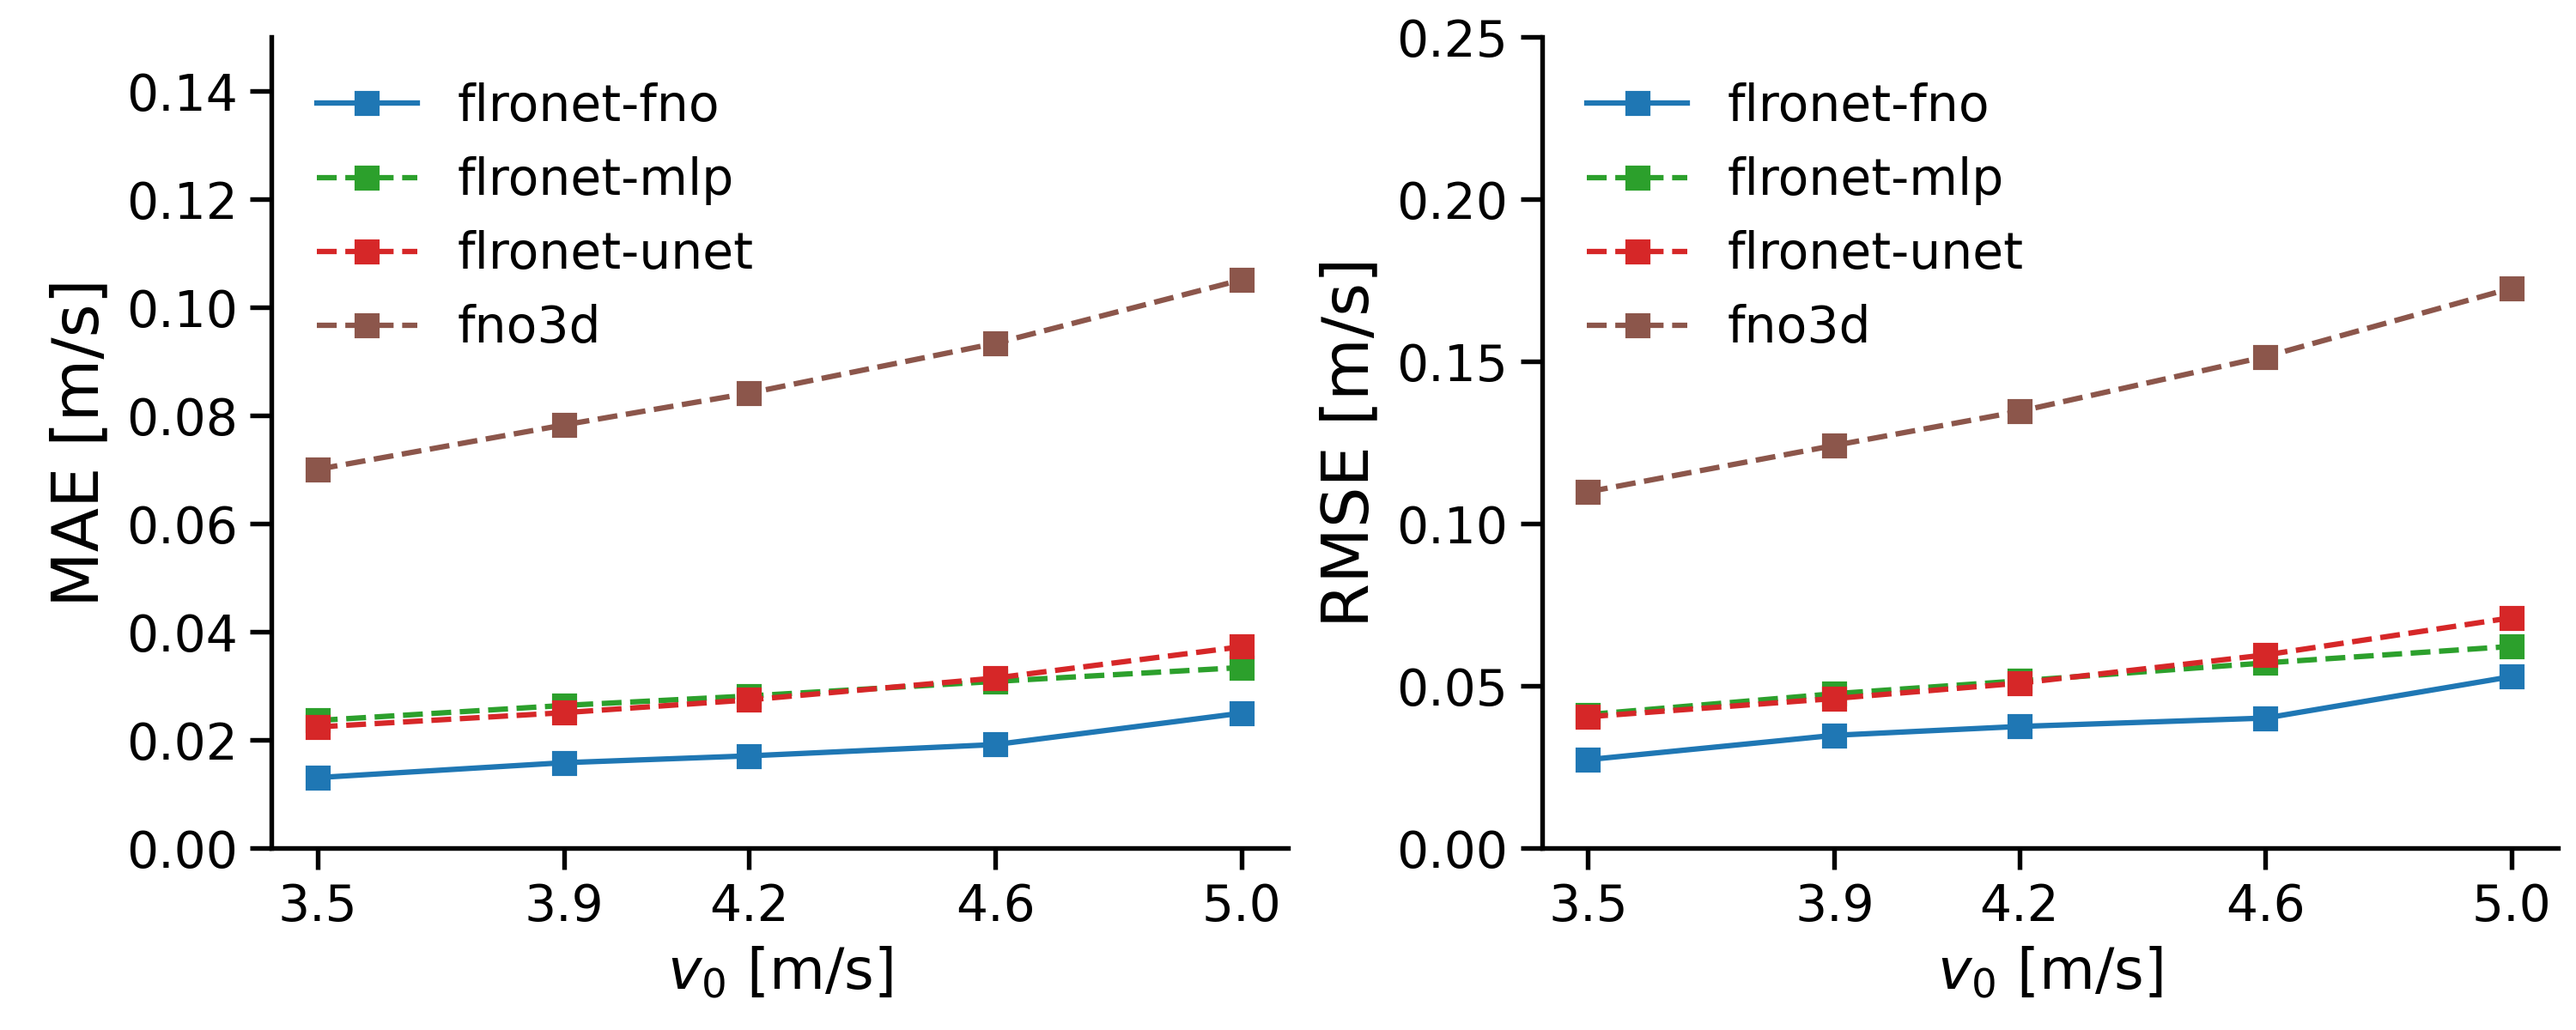
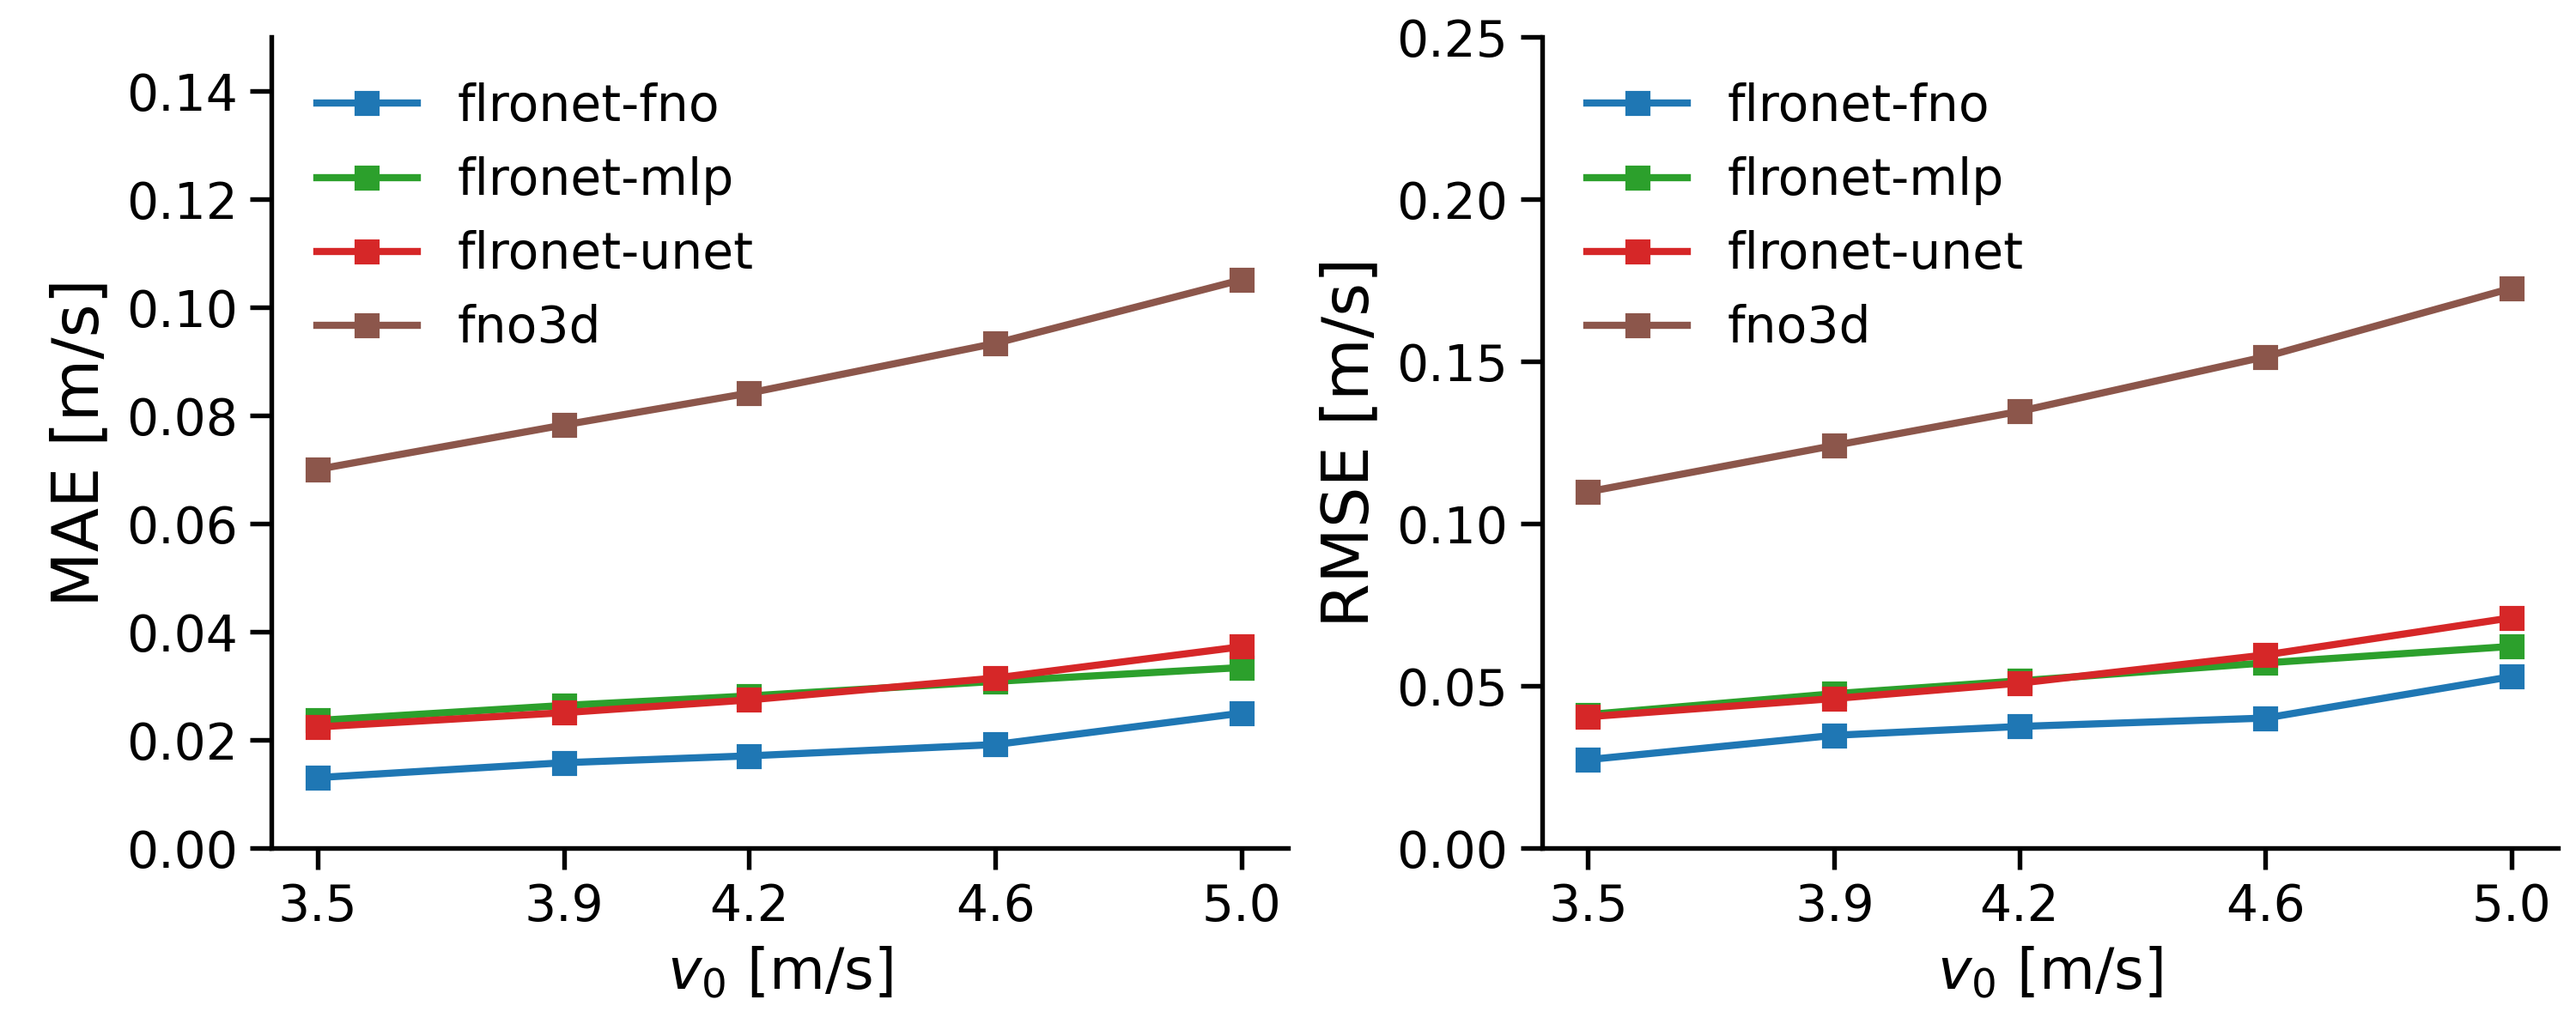
make tight figures

diff --git a/report/noise.py b/report/noise.py
@@ -1,5 +1,6 @@
 import json
 import matplotlib.pyplot as plt
+from matplotlib.lines import Line2D
 
 # Load the data from the JSON file
 with open('report/noise.json', 'r') as f:
@@ -19,34 +20,53 @@ mae_fno3d = [v['MAE'] for v in data['fno3d'].values()]
 # Plotting
 fig, axs = plt.subplots(1, 2, figsize=(12, 4), sharex=True)
 
+# Custom legends
+legend_elements = [
+    Line2D([0], [0], color='tab:blue', marker='s', linestyle='-', linewidth=3, markersize=6, label='flronet-fno'),
+    Line2D([0], [0], color='tab:green', marker='s', linestyle='-', linewidth=3, markersize=6, label='flronet-mlp'),
+    Line2D([0], [0], color='tab:red', marker='s', linestyle='-', linewidth=3, markersize=6, label='flronet-unet'),
+    Line2D([0], [0], color='tab:brown', marker='s', linestyle='-', linewidth=3, markersize=6, label='fno3d')
+]
+
 # MAE subplot
-axs[0].plot(noise_levels, mae_flronetfno, color='tab:blue', label='flronet-fno', linewidth=4)
-axs[0].plot(noise_levels, mae_flronetmlp, color='tab:green', label='flronet-mlp', linewidth=4)
-axs[0].plot(noise_levels, mae_flronetunet, color='tab:red', label='flronet-unet', linewidth=4)
-axs[0].plot(noise_levels, mae_fno3d, color='tab:brown', label='fno3d', linewidth=4)
-axs[0].set_xlabel(r'$\epsilon$', fontsize=18)
+marker_positions = [0., 0.05, 0.1, 0.15, 0.2]
+marker_indices = [list(noise_levels).index(pos) for pos in marker_positions]  # Find indices
+
+axs[0].plot(noise_levels, mae_flronetfno, color='tab:blue', label='flronet-fno', linewidth=3)
+axs[0].plot(marker_positions, [mae_flronetfno[i] for i in marker_indices], marker='s', color='tab:blue', linestyle='None', markersize=6)
+axs[0].plot(noise_levels, mae_flronetmlp, color='tab:green', label='flronet-mlp', linewidth=3)
+axs[0].plot(marker_positions, [mae_flronetmlp[i] for i in marker_indices], marker='s', color='tab:green', linestyle='None', markersize=6)
+axs[0].plot(noise_levels, mae_flronetunet, color='tab:red', label='flronet-unet', linewidth=3)
+axs[0].plot(marker_positions, [mae_flronetunet[i] for i in marker_indices], marker='s', color='tab:red', linestyle='None', markersize=6)
+axs[0].plot(noise_levels, mae_fno3d, color='tab:brown', label='fno3d', linewidth=3)
+axs[0].plot(marker_positions, [mae_fno3d[i] for i in marker_indices], marker='s', color='tab:brown', linestyle='None', markersize=6)
+axs[0].set_xlabel(r'$\epsilon$', fontsize=20)
 axs[0].set_ylabel('MAE [m/s]', fontsize=18)
 axs[0].tick_params(axis='both', labelsize=16)
 filtered_levels = [level for level in noise_levels if (level * 100) % 5 == 0]
 axs[0].set_xticks(filtered_levels)
 axs[0].set_xticklabels([f"{int(level * 100)}%" for level in filtered_levels])
-axs[0].legend(fontsize=16, frameon=False)
+axs[0].legend(handles=legend_elements, fontsize=16, frameon=False)
 axs[0].set_ylim(0, 0.5)
 axs[0].spines['top'].set_visible(False)
 axs[0].spines['right'].set_visible(False)
 
 # RMSE subplot
-axs[1].plot(noise_levels, rmse_flronetfno, color='tab:blue', label='flronet-fno', linewidth=4)
-axs[1].plot(noise_levels, rmse_flronetmlp, color='tab:green', label='flronet-mlp', linewidth=4)
-axs[1].plot(noise_levels, rmse_flronetunet, color='tab:red', label='flronet-unet', linewidth=4)
-axs[1].plot(noise_levels, rmse_fno3d, color='tab:brown', label='fno3d', linewidth=4)
-axs[1].set_xlabel(r'$\epsilon$', fontsize=18)
+axs[1].plot(noise_levels, rmse_flronetfno, color='tab:blue', label='flronet-fno', linewidth=3)
+axs[1].plot(marker_positions, [rmse_flronetfno[i] for i in marker_indices], marker='s', color='tab:blue', linestyle='None', markersize=6)
+axs[1].plot(noise_levels, rmse_flronetmlp, color='tab:green', label='flronet-mlp', linewidth=3)
+axs[1].plot(marker_positions, [rmse_flronetmlp[i] for i in marker_indices], marker='s', color='tab:green', linestyle='None', markersize=6)
+axs[1].plot(noise_levels, rmse_flronetunet, color='tab:red', label='flronet-unet', linewidth=3)
+axs[1].plot(marker_positions, [rmse_flronetunet[i] for i in marker_indices], marker='s', color='tab:red', linestyle='None', markersize=6)
+axs[1].plot(noise_levels, rmse_fno3d, color='tab:brown', label='fno3d', linewidth=3)
+axs[1].plot(marker_positions, [rmse_fno3d[i] for i in marker_indices], marker='s', color='tab:brown', linestyle='None', markersize=6)
+axs[1].set_xlabel(r'$\epsilon$', fontsize=20)
 axs[1].set_ylabel('RMSE [m/s]', fontsize=18)
 axs[1].tick_params(axis='both', labelsize=16)
 filtered_levels = [level for level in noise_levels if (level * 100) % 5 == 0]
 axs[1].set_xticks(filtered_levels)
 axs[1].set_xticklabels([f"{int(level * 100)}%" for level in filtered_levels])
-axs[1].legend(fontsize=16, frameon=False)
+axs[1].legend(handles=legend_elements, fontsize=16, frameon=False)
 axs[1].set_ylim(0, 0.7)
 axs[1].spines['top'].set_visible(False)
 axs[1].spines['right'].set_visible(False)

diff --git a/report/dropout.py b/report/dropout.py
@@ -1,5 +1,6 @@
 import json
 import matplotlib.pyplot as plt
+from matplotlib.lines import Line2D
 
 # Load the data from the JSON file
 with open('report/dropout.json', 'r') as f:
@@ -19,29 +20,46 @@ mae_fno3d = [data['fno3d'][str(i)]['MAE'] for i in steps]
 # Plotting
 fig, axs = plt.subplots(1, 2, figsize=(12, 4), sharex=True)
 
+# Custom legends
+legend_elements = [
+    Line2D([0], [0], color='tab:blue', marker='s', linestyle='-', linewidth=3, markersize=6, label='flronet-fno'),
+    Line2D([0], [0], color='tab:green', marker='s', linestyle='-', linewidth=3, markersize=6, label='flronet-mlp'),
+    Line2D([0], [0], color='tab:red', marker='s', linestyle='-', linewidth=3, markersize=6, label='flronet-unet'),
+    Line2D([0], [0], color='tab:brown', marker='s', linestyle='-', linewidth=3, markersize=6, label='fno3d')
+]
+
 # MAE subplot
-axs[0].plot(steps, mae_flronetfno, label='flronet-fno', linestyle='-', color='tab:blue', linewidth=4)
-axs[0].plot(steps, mae_flronetmlp, label='flronet-mlp', linestyle='-', color='tab:green', linewidth=4)
-axs[0].plot(steps, mae_flronetunet, label='flronet-unet', linestyle='-', color='tab:red', linewidth=4)
-axs[0].plot(steps, mae_fno3d, label='fno3d', linestyle='-', color='tab:brown', linewidth=4)
+marker_positions = [0, 5, 10, 15, 20]
+axs[0].plot(steps, mae_flronetfno, label='flronet-fno', linestyle='-', color='tab:blue', linewidth=3)
+axs[0].plot(marker_positions, [mae_flronetfno[i] for i in marker_positions], marker='s', color='tab:blue', linestyle='None', markersize=6)
+axs[0].plot(steps, mae_flronetmlp, label='flronet-mlp', linestyle='-', color='tab:green', linewidth=3)
+axs[0].plot(marker_positions, [mae_flronetmlp[i] for i in marker_positions], marker='s', color='tab:green', linestyle='None', markersize=6)
+axs[0].plot(steps, mae_flronetunet, label='flronet-unet', linestyle='-', color='tab:red', linewidth=3)
+axs[0].plot(marker_positions, [mae_flronetunet[i] for i in marker_positions], marker='s', color='tab:red', linestyle='None', markersize=6)
+axs[0].plot(steps, mae_fno3d, label='fno3d', linestyle='-', color='tab:brown', linewidth=3)
+axs[0].plot(marker_positions, [mae_fno3d[i] for i in marker_positions], marker='s', color='tab:brown', linestyle='None', markersize=6)
 axs[0].set_xlabel(r'$d$', fontsize=18)
 axs[0].set_ylabel('MAE [m/s]', fontsize=18)
 axs[0].tick_params(axis='both', labelsize=16)
 axs[0].set_ylim(0, None)
-axs[0].legend(fontsize=16, frameon=False)
+axs[0].legend(handles=legend_elements, fontsize=16, frameon=False)
 axs[0].spines['top'].set_visible(False)
 axs[0].spines['right'].set_visible(False)
 
 # RMSE subplot
-axs[1].plot(steps, rmse_flronetfno, label='flronet-fno', linestyle='-', color='tab:blue', linewidth=4)
-axs[1].plot(steps, rmse_flronetmlp, label='flronet-mlp', linestyle='-', color='tab:green', linewidth=4)
-axs[1].plot(steps, rmse_flronetunet, label='flronet-unet', linestyle='-', color='tab:red', linewidth=4)
-axs[1].plot(steps, rmse_fno3d, label='fno3d', linestyle='-', color='tab:brown', linewidth=4)
+axs[1].plot(steps, rmse_flronetfno, label='flronet-fno', linestyle='-', color='tab:blue', linewidth=3)
+axs[1].plot(marker_positions, [rmse_flronetfno[i] for i in marker_positions], marker='s', color='tab:blue', linestyle='None', markersize=6)
+axs[1].plot(steps, rmse_flronetmlp, label='flronet-mlp', linestyle='-', color='tab:green', linewidth=3)
+axs[1].plot(marker_positions, [rmse_flronetmlp[i] for i in marker_positions], marker='s', color='tab:green', linestyle='None', markersize=6)
+axs[1].plot(steps, rmse_flronetunet, label='flronet-unet', linestyle='-', color='tab:red', linewidth=3)
+axs[1].plot(marker_positions, [rmse_flronetunet[i] for i in marker_positions], marker='s', color='tab:red', linestyle='None', markersize=6)
+axs[1].plot(steps, rmse_fno3d, label='fno3d', linestyle='-', color='tab:brown', linewidth=3)
+axs[1].plot(marker_positions, [rmse_fno3d[i] for i in marker_positions], marker='s', color='tab:brown', linestyle='None', markersize=6)
 axs[1].set_xlabel(r'$d$', fontsize=18)
 axs[1].set_ylabel('RMSE [m/s]', fontsize=18)
 axs[1].tick_params(axis='both', labelsize=16)
 axs[1].set_ylim(0, None)
-axs[1].legend(fontsize=16, frameon=False)
+axs[1].legend(handles=legend_elements, fontsize=16, frameon=False)
 axs[1].spines['top'].set_visible(False)
 axs[1].spines['right'].set_visible(False)
 

diff --git a/report/compare.py b/report/compare.py
@@ -29,10 +29,10 @@ rmse_fno3d = [case['RMSE'] for case in data['fno3d'].values()]
 fig, axs = plt.subplots(1, 2, figsize=(10, 4))
 
 # MAE subplot
-axs[0].plot(v_flronetfno, mae_flronetfno, label='flronet-fno', marker='s', color='tab:blue', linestyle='-')
-axs[0].plot(v_flronetmlp, mae_flronetmlp, label='flronet-mlp', marker='s', color='tab:green', linestyle='--')
-axs[0].plot(v_flronetunet, mae_flronetunet, label='flronet-unet', marker='s', color='tab:red', linestyle='--')
-axs[0].plot(v_fno3d, mae_fno3d, label='fno3d', marker='s', color='tab:brown', linestyle='--')
+axs[0].plot(v_flronetfno, mae_flronetfno, label='flronet-fno', marker='s', color='tab:blue', linestyle='-', linewidth=2)
+axs[0].plot(v_flronetmlp, mae_flronetmlp, label='flronet-mlp', marker='s', color='tab:green', linestyle='-', linewidth=2)
+axs[0].plot(v_flronetunet, mae_flronetunet, label='flronet-unet', marker='s', color='tab:red', linestyle='-', linewidth=2)
+axs[0].plot(v_fno3d, mae_fno3d, label='fno3d', marker='s', color='tab:brown', linestyle='-', linewidth=2)
 axs[0].set_xticks(v_flronetfno)
 axs[0].set_xticklabels([f"{v:.1f}" for v in v_flronetfno], fontsize=14)
 axs[0].tick_params(axis='y', labelsize=14)
@@ -47,10 +47,10 @@ axs[0].spines['bottom'].set_linewidth(1.3)
 axs[0].tick_params(axis='both', which='major', length=6, width=1.3)
 
 # RMSE subplot
-axs[1].plot(v_flronetfno, rmse_flronetfno, label='flronet-fno', marker='s', color='tab:blue', linestyle='-')
-axs[1].plot(v_flronetmlp, rmse_flronetmlp, label='flronet-mlp', marker='s', color='tab:green', linestyle='--')
-axs[1].plot(v_flronetunet, rmse_flronetunet, label='flronet-unet', marker='s', color='tab:red', linestyle='--')
-axs[1].plot(v_fno3d, rmse_fno3d, label='fno3d', marker='s', color='tab:brown', linestyle='--')
+axs[1].plot(v_flronetfno, rmse_flronetfno, label='flronet-fno', marker='s', color='tab:blue', linestyle='-', linewidth=2)
+axs[1].plot(v_flronetmlp, rmse_flronetmlp, label='flronet-mlp', marker='s', color='tab:green', linestyle='-', linewidth=2)
+axs[1].plot(v_flronetunet, rmse_flronetunet, label='flronet-unet', marker='s', color='tab:red', linestyle='-', linewidth=2)
+axs[1].plot(v_fno3d, rmse_fno3d, label='fno3d', marker='s', color='tab:brown', linestyle='-', linewidth=2)
 axs[1].set_xticks(v_flronetfno)
 axs[1].set_xticklabels([f"{v:.1f}" for v in v_flronetfno], fontsize=14)
 axs[1].tick_params(axis='y', labelsize=14)

diff --git a/common/plotting.py b/common/plotting.py
@@ -76,29 +76,39 @@ def plot_frame(
             norm = matplotlib.colors.Normalize(vmin=0, vmax=max_value)
 
         im = ax.imshow(frame.squeeze(dim=0), origin="lower", norm=norm, cmap=cmaps.balance)
-        # cbar = ax.figure.colorbar(im, ax=ax, orientation='vertical', fraction=0.046, pad=0.04)
-        # cbar = ax.figure.colorbar(im, ax=ax, orientation='vertical', fraction=0.027, pad=0.04)  # for display in report
-        # cbar.ax.tick_params(labelsize=10)
+        # Display cmap bar
+        # cbar = ax.figure.colorbar(im, ax=ax, orientation='vertical', fraction=0.027, pad=0.04)
+        # cbar.ax.tick_params(labelsize=14)
+        # if chart_title == 'Error':
+        #     tick_values = list(range(int(cbar.vmin), int(cbar.vmax) + 1, 5))
+        # else:
+        #     tick_values = list(range(int(cbar.vmin), int(cbar.vmax) + 1, 2))
+        # cbar.set_ticks(tick_values)
 
         if sensor_positions is not None:
             for sensor_x, sensor_y in sensor_positions:
                 # mark sensors
                 ax.add_patch(
-                    patches.Rectangle(
+                    patches.Circle(
                         xy=(sensor_y, sensor_x),
-                        width=1, height=1,  # Size of the marker (1 pixel)
-                        edgecolor='white',
+                        radius=1.3,  # Adjust the radius for dot size
+                        edgecolor='black',
                         facecolor='white',
                         fill=True
                     )
                 )
         # NOTE: setting for display in report
         ax.tick_params(labelbottom=False, labelleft=False)  # remove tick labels
-        # ax.set_title(f'{chart_title}', fontsize=14)   # set subplot titles
+        # remove ticks
+        ax.set_xticks([])
+        ax.set_yticks([])
 
     fig.suptitle(title, fontsize=15)
-    # Finalize and save the figure
+    # Ensure no margin
     fig.tight_layout(rect=[0, 0, 1, 0.99])
+    plt.subplots_adjust(left=0, right=1, top=0.99, bottom=0.01)
+    plt.margins(0)
+    # Save the figure
     destination_directory = './plots'
     os.makedirs(destination_directory, exist_ok=True)
     timestamp: dt.datetime = dt.datetime.now()

diff --git a/report/super_res_space.py b/report/super_res_space.py
@@ -4,7 +4,7 @@ scales = ['1x', '2x', '4x', '8x']
 flronet_v100 = [0.14, 0.17, 0.25, 0.47]
 flronet_a100 = [0.09, 0.11, 0.16, 0.3]
 
-fno3d_v100 = [0.17, 0.21, 0.28, 0.51]
+fno3d_v100 = [0.17, 0.2, 0.28, 0.51]
 fno3d_a100 = [0.11, 0.13, 0.17, 0.32]
 
 positions = [float(x.replace('x', '')) for x in scales]
